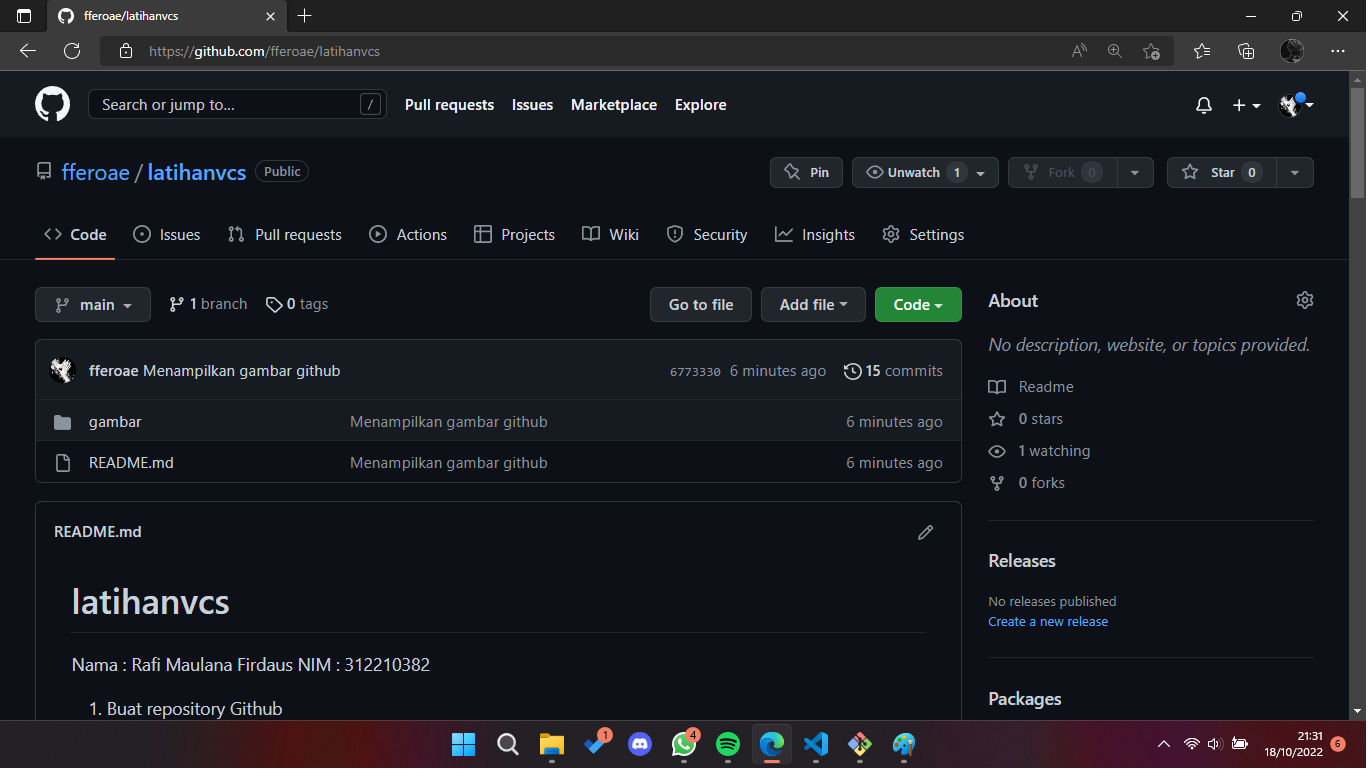
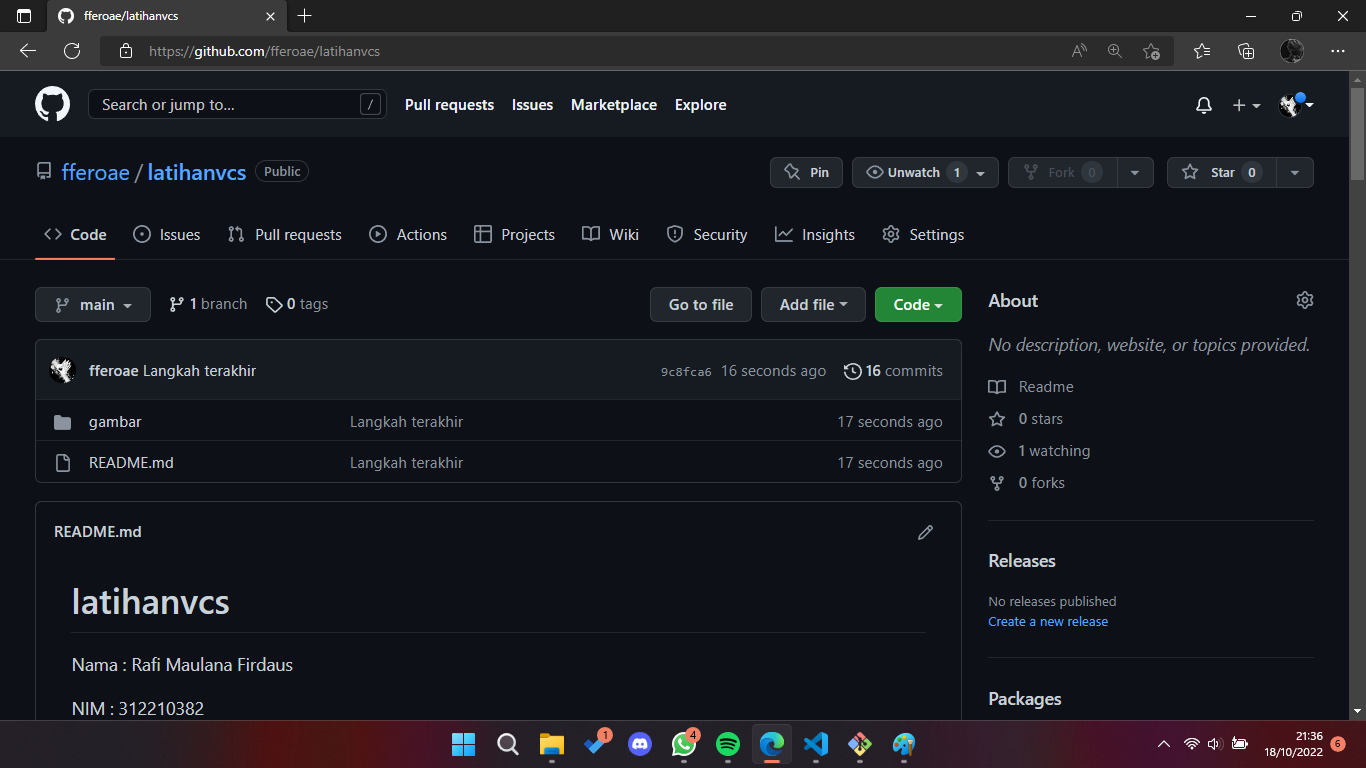
Finishing

diff --git a/README.md b/README.md
@@ -3,6 +3,8 @@
 Nama : Rafi Maulana Firdaus
 
 NIM : 312210382
+------------------------------------------------------------------------------------------------------------------------------
+Langkah-langkah penggunaan Git
 
 1. Buat repository Github
 ![1  Buatrepo](https://user-images.githubusercontent.com/115614668/196441354-88443fa4-87e6-4bbe-8ffc-1f657b21fdf7.png)
@@ -33,5 +35,5 @@ NIM : 312210382
 ![10  gitpush](https://user-images.githubusercontent.com/115614668/196459621-963617bd-75d1-4672-84c0-2cd8c3a1f83d.png)
 
 11. Ini adalah hasilnya
-![11  Hasil1](https://user-images.githubusercontent.com/115614668/196460293-293f9533-da4a-447d-9081-8cf776c8f08c.png)
+![11  Hasil1](https://user-images.githubusercontent.com/115614668/196461470-bc1e9fbd-749e-4860-9799-508bc006c9b6.png)
 
